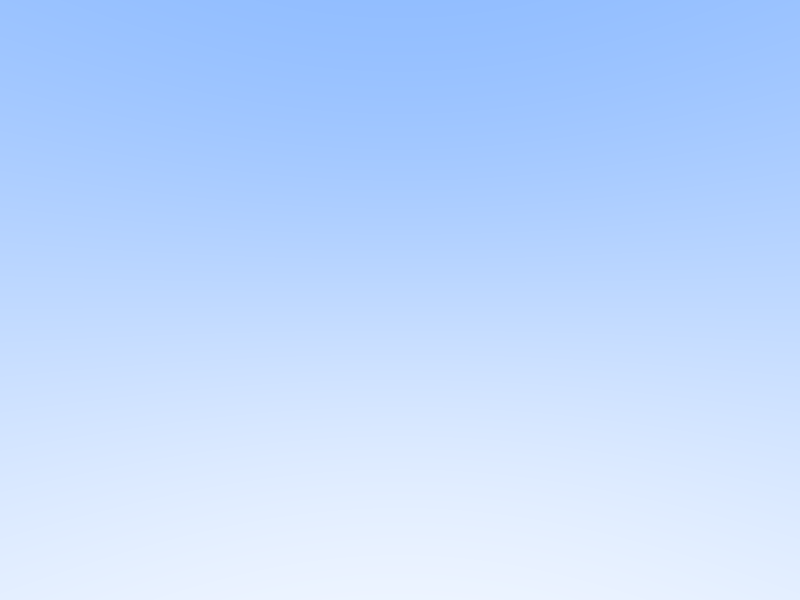
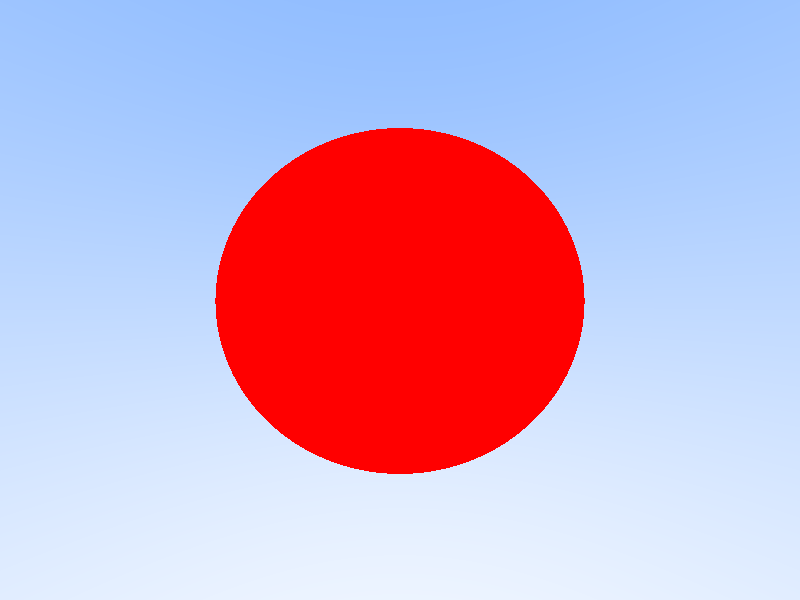
Hit sphere.

Changed region(s): [[0.25, 0.21, 0.75, 0.81]]

diff --git a/raytracer/src/main.rs b/raytracer/src/main.rs
@@ -16,7 +16,27 @@ fn write_image(filename: &str, pixels: &[u8], bounds:(usize, usize)) -> Result<(
     Ok(())
 }
 
+// bool hit_sphere(const point3& center, double radius, const ray& r) {
+//     vec3 oc = r.origin() - center;
+//     auto a = dot(r.direction(), r.direction());
+//     auto b = 2.0 * dot(oc, r.direction());
+//     auto c = dot(oc, oc) - radius*radius;
+//     auto discriminant = b*b - 4*a*c;
+//     return (discriminant > 0);
+// }
+
+fn hit_sphere(center: Point3D, radius: f64, r: &Ray) -> bool {
+    let oc = r.origin - center;
+    let a = r.direction.dot(&r.direction);
+    let b = 2.0 * oc.dot(&r.direction);
+    let c = oc.dot(&oc) - radius * radius;
+    let discriminant = b*b - 4.0*a*c;
+    return discriminant > 0.0;
+}
 fn ray_color(ray: &Ray) -> Srgb {
+    if hit_sphere(Point3D::new(0.0, 0.0, -1.0), 0.5, ray) {
+        return Srgb::new(1.0, 0.0, 0.0);
+    }
     let t : f32 = 0.5 * (ray.direction.unit_vector().y() as f32 + 1.0);
     Srgb::new((1.0 - t) * 1.0 + t * 0.5, (1.0 - t) * 1.0 + t * 0.7, (1.0 - t) * 1.0 + t * 1.0)
 }
@@ -32,10 +52,10 @@ fn test_ray_color() {
 fn render(pixels: &mut[u8], bounds: (usize, usize)) {
     assert!(pixels.len() == bounds.0 * bounds.1 * 3);
 
-    let camera = Camera::new(Point3D::new(0.0,0.0,0.0), 2.0, (800/600) as f64 *2.0, 1.0);
+    let camera = Camera::new(Point3D::new(0.0,0.0,0.0), 2.0, (800/600) as f64 * 2.5, 1.0);
 
     for y in 0..bounds.1 {
-        eprintln!("scanlines remaining {}", bounds.1 - y);
+        eprint!(".");
         for x in 0..bounds.0 {
             let u = (x as f64) / (bounds.0 as f64 - 1.0);
             let v = (bounds.1 as f64 - y as f64) / (bounds.1 as f64 - 1.0);

diff --git a/raytracer/src/lib.rs b/raytracer/src/lib.rs
@@ -44,6 +44,10 @@ impl Point3D {
         let length = self.length();
         Point3D::new(self.x / length, self.y / length, self.z / length)
     }
+
+    pub fn dot(&self, other: &Point3D) -> f64 {
+        self.x * other.x + self.y * other.y + self.z * other.z
+    }
 }
 
 impl Add for Point3D {
@@ -228,6 +232,13 @@ fn test_div() {
     assert_approx_eq!(r.x(), 0.5);
     assert_approx_eq!(r.y(), 0.6666666666666666);
     assert_approx_eq!(r.z(), 0.3/0.4);
+}
+
+#[test]
+fn test_dot() {
+    let p = Point3D::new(0.1, 0.2, 0.3);
+    let q = Point3D::new(0.2, 0.3, 0.4);
+    assert_approx_eq!(p.dot(&q), 0.2);
 }
 
 #[test]
